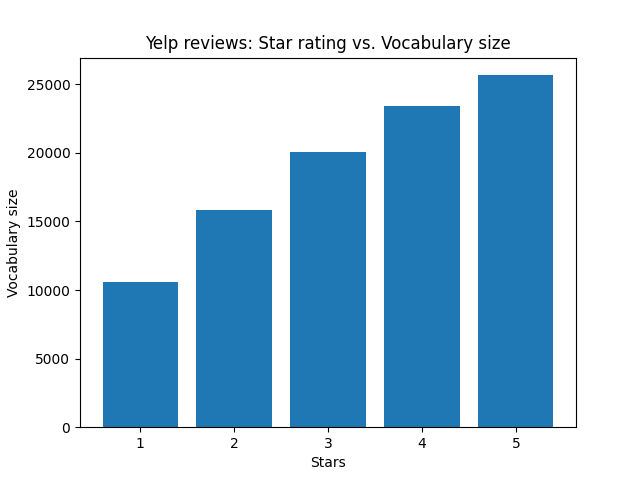
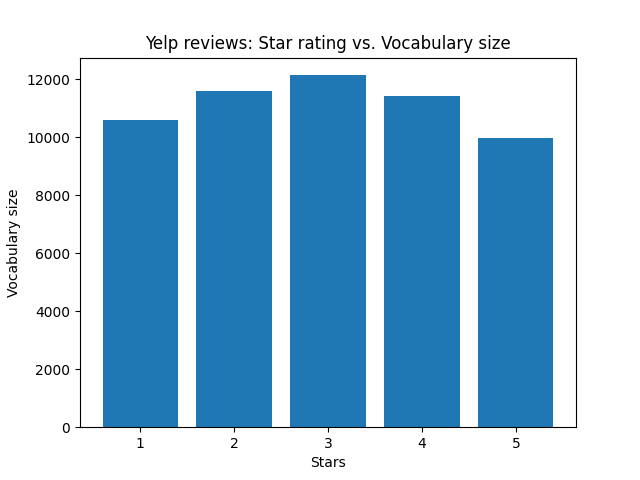
vocab size graph fix

diff --git a/analytics.py b/analytics.py
@@ -14,30 +14,34 @@ if __name__ == "__main__":
     reviews_5star = utils.load_data('five_star.json')
 
     # Tokenize reviews
-    tokenizer = Tokenizer()
+    tokenizer1 = Tokenizer()
+    tokenizer2 = Tokenizer()
+    tokenizer3 = Tokenizer()
+    tokenizer4 = Tokenizer()
+    tokenizer5 = Tokenizer()
 
     avg_review_len = []
     vocab_size = []
     # Calculate vocabulary size and truncate/pad reviews
-    tokenizer.fit_on_texts(reviews_1star['text'])
+    tokenizer1.fit_on_texts(reviews_1star['text'])
     avg_review_len.append(np.mean([len(s) for s in reviews_1star['sequences']]))
-    vocab_size.append(len(tokenizer.word_index) + 1)
+    vocab_size.append(len(tokenizer1.word_index) + 1)
 
-    tokenizer.fit_on_texts(reviews_2star['text'])
+    tokenizer2.fit_on_texts(reviews_2star['text'])
     avg_review_len.append(np.mean([len(s) for s in reviews_2star['sequences']]))
-    vocab_size.append(len(tokenizer.word_index) + 1)
+    vocab_size.append(len(tokenizer2.word_index) + 1)
 
-    tokenizer.fit_on_texts(reviews_3star['text'])
+    tokenizer3.fit_on_texts(reviews_3star['text'])
     avg_review_len.append(np.mean([len(s) for s in reviews_3star['sequences']]))
-    vocab_size.append(len(tokenizer.word_index) + 1)
+    vocab_size.append(len(tokenizer3.word_index) + 1)
 
-    tokenizer.fit_on_texts(reviews_4star['text'])
+    tokenizer4.fit_on_texts(reviews_4star['text'])
     avg_review_len.append(np.mean([len(s) for s in reviews_4star['sequences']]))
-    vocab_size.append(len(tokenizer.word_index) + 1)
+    vocab_size.append(len(tokenizer4.word_index) + 1)
 
-    tokenizer.fit_on_texts(reviews_5star['text'])
+    tokenizer5.fit_on_texts(reviews_5star['text'])
     avg_review_len.append(np.mean([len(s) for s in reviews_5star['sequences']]))
-    vocab_size.append(len(tokenizer.word_index) + 1)
+    vocab_size.append(len(tokenizer5.word_index) + 1)
 
     # Make graphs with data
     plt.bar([1,2,3,4,5], vocab_size)
